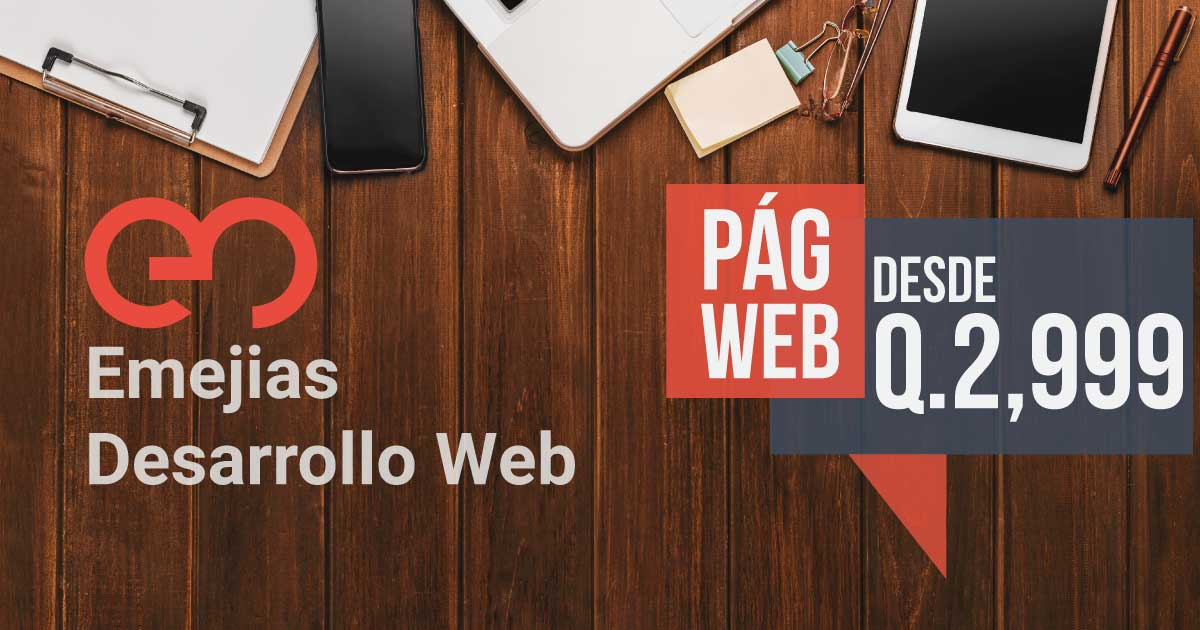
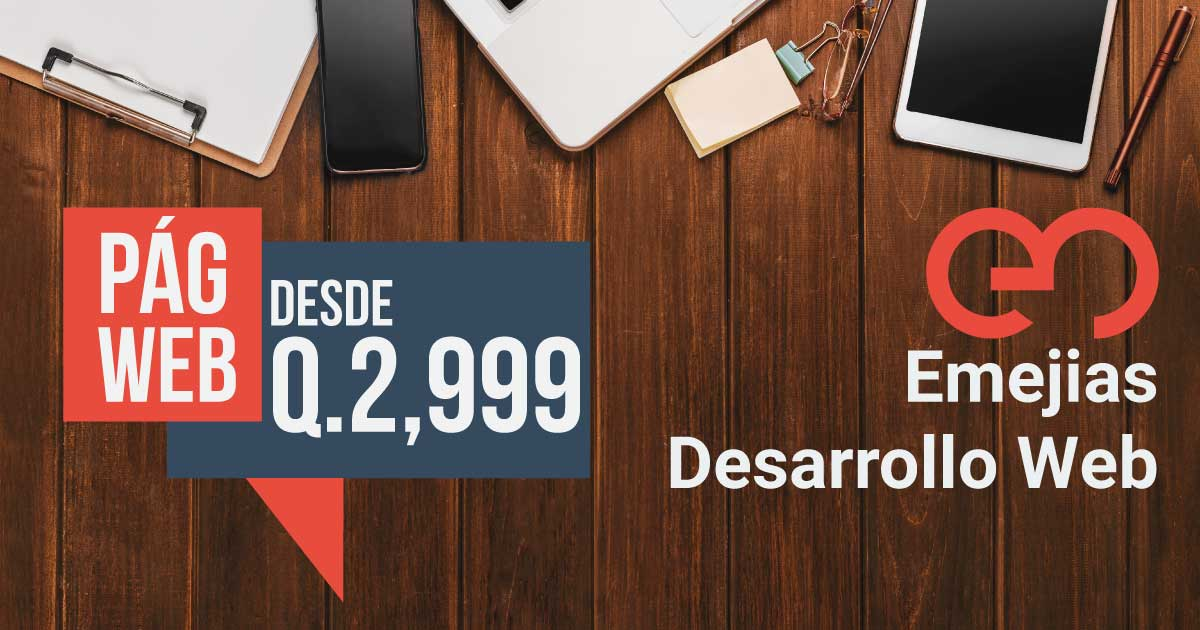
change share img

diff --git a/index.html b/index.html
@@ -14,7 +14,7 @@
     <meta property="og:type"          content="website" />
     <meta property="og:title"         content="Emejias" />
     <meta property="og:description"   content="Desarrollo de aplicaciones web y páginas web en Petén Guatemala" />
-    <meta property="og:image"         content="http://emejias.com/assets/images/fb_bg_share_new2.jpg"/>
+    <meta property="og:image"         content="http://emejias.com/assets/images/fb_bg_share_new.jpg"/>
     <!-- The above 3 meta tags *must* come first in the head; any other head content must come *after* these tags -->
     <meta name="description" content="Desarrollo de aplicaciones web y páginas web en Petén Guatemala">
     <meta name="author" content="emejias">
